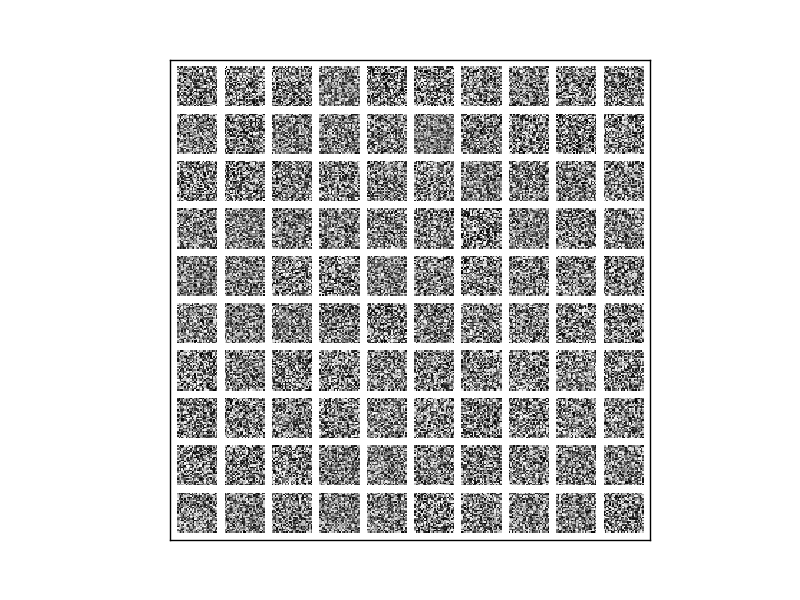
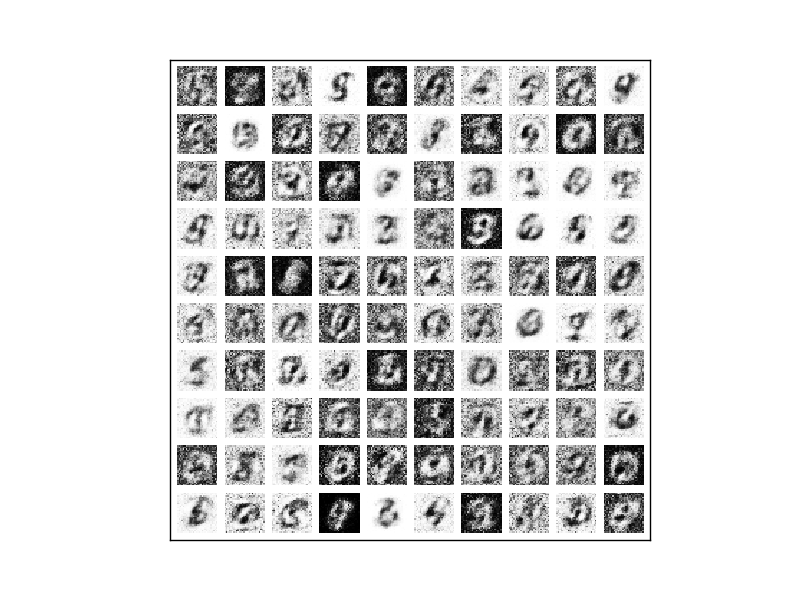
Fixed bug in AEVB experiment and now have decent-looking samples

Changed region(s): [[0.2188, 0.09, 0.8125, 0.9]]

diff --git a/experiments/6-test-aevb/1-test-encoder/main.py b/experiments/6-test-aevb/1-test-encoder/main.py
@@ -12,71 +12,67 @@ from autopaint.optimizers import adam_mini_batch
 from autopaint.neuralnet import make_batches
 from autopaint.util import load_mnist
 from autopaint.aevb import build_encoder, build_binarized_decoder, lower_bound
+from autopaint.util import WeightsParser
+
+param_scale = 0.1
+samples_per_image = 5
+latent_dimensions = 20
+hidden_units = 500
 
 def run_aevb(train_images):
     start_time = time.time()
 
-    #Create aevb function
+    # Create aevb function
     # Training parameters
-    param_scale = 0.1
-    samples_per_image = 5
-    latent_dimensions = 20
-    hidden_units = 500
+
     D = train_images.shape[1]
 
     enc_layers = [D, hidden_units, 2*latent_dimensions]
     dec_layers = [latent_dimensions, hidden_units, D]
 
-    N_weights_enc,encoder = build_encoder(enc_layers)
-    N_weights_dec,decoder, decoder_log_like = build_binarized_decoder(dec_layers)
+    N_weights_enc, encoder = build_encoder(enc_layers)
+    N_weights_dec, decoder, decoder_log_like = build_binarized_decoder(dec_layers)
 
-    #Optimize aevb
+    # Optimize aevb
     batch_size = 256
     num_epochs = 160
-    rs = npr.RandomState([0])
-    enc_w = rs.randn(N_weights_enc) * param_scale
-    dec_w = rs.randn(N_weights_dec) * param_scale
+    rs = npr.RandomState(0)
 
-    weights = np.concatenate((enc_w,dec_w))
+    parser = WeightsParser()
+    parser.add_shape('encoding weights', (N_weights_enc,))
+    parser.add_shape('decoding weights', (N_weights_dec,))
+    initial_combined_weights = rs.randn(len(parser)) * param_scale
 
     batch_idxs = make_batches(train_images.shape[0], batch_size)
 
-    def batch_value_and_grad(weights,idxs):
+    def batch_value_and_grad(weights, idxs):
         def batch_lower_bound(weights):
             return lower_bound(weights,encoder,decoder_log_like,N_weights_enc,train_images[idxs],samples_per_image,latent_dimensions,rs)
-        #TODO:Make it so we don't have to recompute gradient at each iter? (Currently not necessary since it is very fast)
+
         val_and_grad_func = value_and_grad(batch_lower_bound)
+
+        return val_and_grad_func(weights)
+
+    def callback(ml, weights, grad):
+        print "log marginal likelihood:", ml
+
         #Generate samples
         num_samples = 100
         images_per_row = 10
-        z = rs.randn(num_samples,latent_dimensions)
-        samples = decoder(dec_w,z)
+        zs = rs.randn(num_samples,latent_dimensions)
+        samples = decoder(parser.get(weights, 'decoding weights'), zs)
         fig = plt.figure(1)
         fig.clf()
         ax = fig.add_subplot(111)
         plot_images(samples, ax, ims_per_row=images_per_row)
         plt.savefig('samples.png')
 
-        return val_and_grad_func(weights)
+    final_params, final_value = adam_mini_batch(batch_value_and_grad, initial_combined_weights,
+                                                batch_idxs, num_epochs, callback=callback)
 
-    def print_ml(ml,weights,grad):
-        print "log marginal likelihood:", ml
-
-    final_params, final_value = adam_mini_batch(batch_value_and_grad,weights,batch_idxs,num_epochs,callback=print_ml)
-
-    final_dec_w = final_params[N_weights_enc:len(weights)]
-
-    # #Generate samples
-    # num_samples = 100
-    # z = rs.randn(num_samples,latent_dimensions)
-    # muSamples,log_sig_samples = decoder(final_dec_w,z)
-    # sig_samples = np.exp(log_sig_samples)
-    # noise = rs.randn(num_samples,D)
-    # samples = muSamples+sig_samples*noise
-    # print 'empirical mean', np.mean(samples,axis=0)
-    # print 'empirical cov', np.cov((samples.T))
-    # plot_density(samples, "aevb_approximating_dist.png")
-
+    def decoder_with_weights(zs):
+        return decoder(parser.get(final_params, 'decoding weights'), zs)
+    return decoder_with_weights
 
     finish_time = time.time()
     print "total runtime", finish_time - start_time
@@ -95,6 +91,5 @@ if __name__ == '__main__':
     with open('mnist_binary_data.pkl') as f:
         N_data, train_images, train_labels, test_images, test_labels = pickle.load(f)
 
+    decoder = run_aevb(train_images)
 
-    # train_images = np.random.multivariate_normal(np.zeros(2),np.array([[1,0],[0,1]]),1000)
-    run_aevb(train_images)
